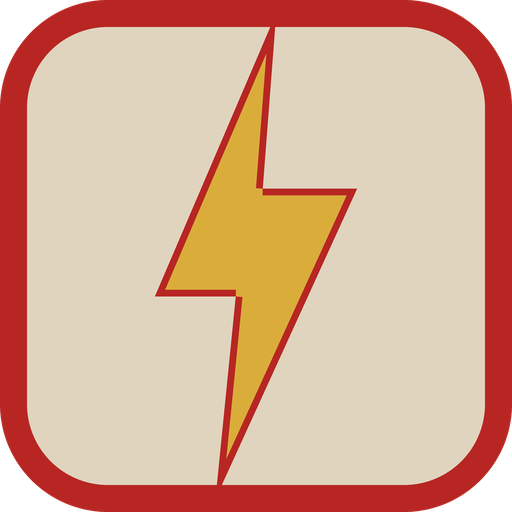
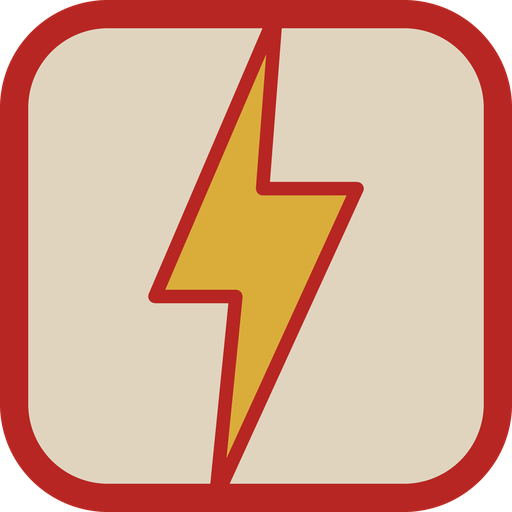
Kern the wordmark, lighten the frame, join the bolt's corners
Three things, all visible once pointed at.

FLASH read looser than CARDS. The means were within 3% of each other, so
that was not it: FLASH was twice as uneven, opening on the widest gap in
either word (F.L, 7.01) and closing on the tightest (A.S, 4.83). Every
pair now has a declared target gap, set from CARDS' mean and then eased
by eye — F.L and L.A take less than their share because the two letters'
open counters face each other and the eye adds the voids together, A.S
takes more. Spread within FLASH drops from 2.18 to 1.05.

The frame goes from 5 to 4.2.

The icon's bolt was missing red at its four concave corners. Pillow's
polygon(outline=...) strokes each edge as a separate line and leaves a
notch wherever two meet. Drawing the outline as one closed line with
joint="curve" both fixes it and matches what the SVG already does, which
is stroke-linejoin="round".

While there: the icon now takes the wordmark's own frame and bolt
weights rather than lighter ones of its own. The weights were lightened
when the corners were broken, and the bolt was the thing that looked
heavy. The rule is simpler for it — the icon is the wordmark with the
words taken out.

diff --git a/tools/wordmark.py b/tools/wordmark.py
@@ -35,7 +35,21 @@ OUT = Path("public/logo.svg")
 SIZE, TRACK = 19.0, 3.4
 GAP, PAD = 15.0, 34.0            # ink either side of the bolt; ink to the frame
 HEIGHT = 76.0
-FRAME_STROKE, RADIUS = 5.0, 16.0
+FRAME_STROKE, RADIUS = 4.2, 16.0
+
+# The ink gap to hold between each pair of letters.
+#
+# Monospace gives every glyph the same advance, which leaves FLASH opening on
+# its widest gap (F.L, 7.01) and closing on its tightest (A.S, 4.83) — twice as
+# uneven as CARDS, and visible as FLASH looking looser than CARDS. These are
+# 5.6, the mean of CARDS, then eased by eye: F.L and L.A get less than their
+# share because the letters' open counters face each other and the eye adds the
+# two voids together, and A.S gets more because A's apex and S's spine already
+# lean apart.
+TARGET_GAPS = {
+    "FLASH": [4.90, 5.35, 5.95, 5.60],
+    "CARDS": [5.70, 5.45, 5.40, 5.60],
+}
 BOLT_STROKE = 2.0
 BOLT = "M18 0 L0 42 H12 L9 72 L30 26 H16 Z"      # ink 30 wide, 72 tall
 BOLT_W, BOLT_H = 30.0, 72.0
@@ -71,22 +85,41 @@ def main():
     cmap, glyphs = font.getBestCmap(), font.getGlyphSet()
     scale = SIZE / font["head"].unitsPerEm
 
+    def measure(ch):
+        """Ink bounds of one glyph, at its own origin."""
+        bounds = BoundsPen(glyphs)
+        glyphs[cmap[ord(ch)]].draw(
+            TransformPen(bounds, Transform(scale, 0, 0, -scale, 0.0, 0.0)))
+        return bounds.bounds[0], bounds.bounds[2]
+
     def word(text, baseline):
-        """A draw() that renders `text` from a given x, plus its ink bounds."""
-        def draw(pen, origin):
-            x = origin
-            for ch in text:
-                glyph = glyphs[cmap[ord(ch)]]
-                glyph.draw(TransformPen(pen, Transform(scale, 0, 0, -scale, x, baseline)))
-                x += glyph.width * scale + TRACK
+        """A draw() placing `text` so its ink starts at a given x, plus width.
+
+        Each glyph is set from the previous glyph's ink, not from an advance,
+        which is what makes TARGET_GAPS mean what it says.
+        """
+        gaps = TARGET_GAPS[text]
+
+        def draw(pen, ink_start):
+            x0, x1 = measure(text[0])
+            origin, ink_end = ink_start - x0, ink_start + (x1 - x0)
+            glyphs[cmap[ord(text[0])]].draw(
+                TransformPen(pen, Transform(scale, 0, 0, -scale, origin, baseline)))
+            for ch, gap in zip(text[1:], gaps):
+                x0, x1 = measure(ch)
+                origin = ink_end + gap - x0
+                glyphs[cmap[ord(ch)]].draw(
+                    TransformPen(pen, Transform(scale, 0, 0, -scale, origin, baseline)))
+                ink_end = origin + x1
+            return ink_end
 
         bounds = BoundsPen(glyphs)
-        draw(bounds, 0.0)
-        return draw, bounds.bounds
+        end = draw(bounds, 0.0)
+        return draw, (0.0, bounds.bounds[1], end, bounds.bounds[3])
 
     # Centre the letters by their ink rather than trusting the baseline, so the
     # words sit in the middle of the frame however the face is drawn.
-    _, probe = word("FLASHCARDS", 45.0)
+    _, probe = word("FLASH", 45.0)
     baseline = 45.0 + (HEIGHT / 2 - (probe[1] + probe[3]) / 2)
 
     draw_flash, (fx0, _, fx1, _) = word("FLASH", baseline)
@@ -101,9 +134,9 @@ def main():
     width = round(cards_right + PAD, 2)
 
     flash = SVGPathPen(glyphs, ntos=lambda v: f"{v:.2f}")
-    draw_flash(flash, PAD - fx0)
+    draw_flash(flash, PAD)
     cards = SVGPathPen(glyphs, ntos=lambda v: f"{v:.2f}")
-    draw_cards(cards, bolt_right + GAP - cx0)
+    draw_cards(cards, bolt_right + GAP)
 
     OUT.write_text(f'''<svg xmlns="http://www.w3.org/2000/svg" viewBox="0 0 {width:g} {HEIGHT:g}" width="{width:g}" height="{HEIGHT:g}" role="img" aria-label="Flashcards">
   <title>Flashcards</title>

diff --git a/tools/app-icons.py b/tools/app-icons.py
@@ -13,16 +13,15 @@ from PIL import Image, ImageDraw
 CREAM, RED, GOLD = (224, 212, 191), (183, 38, 34), (218, 173, 59)
 SS = 8                       # supersample, then downsample for clean edges
 
-# Everything as a fraction of the mark's 76-unit height, from public/logo.svg.
+# Everything as a fraction of the mark's 76-unit height, and these are the
+# wordmark's own numbers — see FRAME_STROKE and BOLT_STROKE in tools/wordmark.py.
+# The icon is that mark with the words taken out, so the two stay in step: change
+# one, change the other.
 RADIUS = 16 / 76
-# Lighter than the wordmark's 5 and 2. Those weights are hairlines on a mark
-# 76 tall and 265 wide; on a square the frame closes in on itself and the
-# bolt's red edge starts to compete with its gold.
-STROKE = 4 / 76
+STROKE = 4.2 / 76
 BOLT_H = 72 / 76
 BOLT_W = 30 / 76
-BOLT_STROKE = 1 / 76
-# The bolt path in its own 30x72 space, as in the wordmark.
+BOLT_STROKE = 2 / 76
 BOLT = [(18, 0), (0, 42), (12, 42), (9, 72), (30, 26), (16, 26)]
 
 
@@ -46,7 +45,13 @@ def draw_icon(size, opaque):
     sx, sy = w / 30, h / 72
     ox, oy = (n - w) / 2, (n - h) / 2
     pts = [(ox + x * sx, oy + y * sy) for x, y in BOLT]
-    d.polygon(pts, fill=GOLD, outline=RED, width=max(1, round(BOLT_STROKE * n)))
+    d.polygon(pts, fill=GOLD)
+    # Not polygon(outline=...): that strokes each edge separately and leaves a
+    # notch at every concave corner, which is where this bolt has four of them.
+    # A closed line with rounded joins is also what the SVG does — the wordmark
+    # sets stroke-linejoin="round" — so the two bolts come out the same shape.
+    d.line(pts + [pts[0]], fill=RED, width=max(1, round(BOLT_STROKE * n)),
+           joint="curve")
 
     im = im.resize((size, size), Image.LANCZOS)
     return im.convert("RGB") if opaque else im
